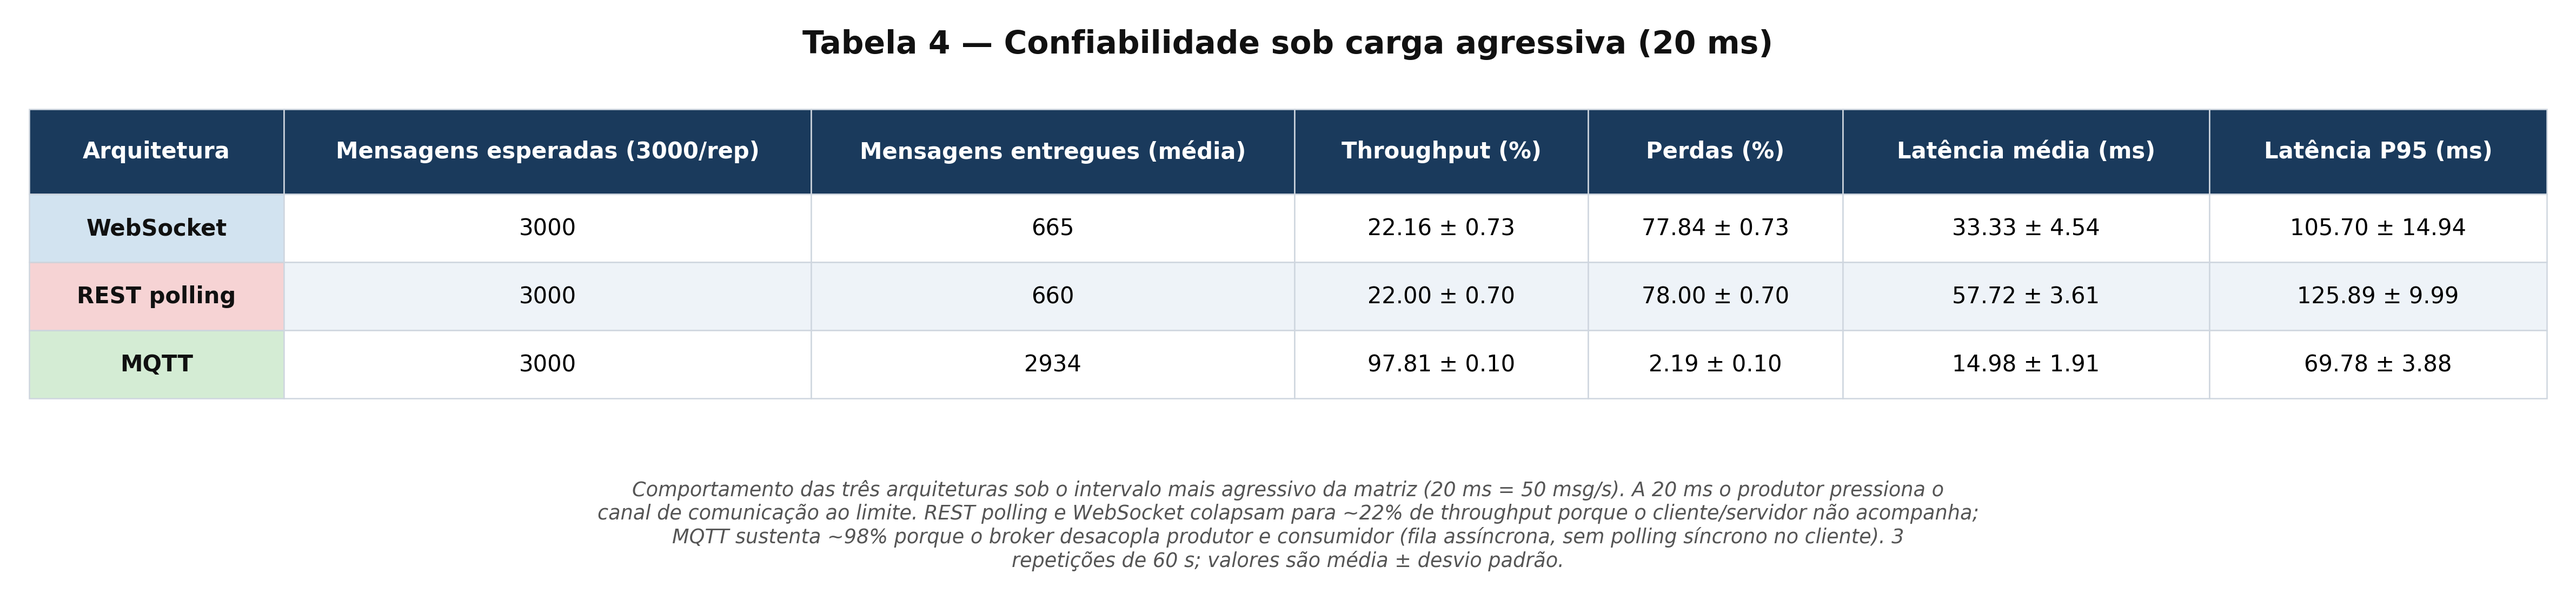
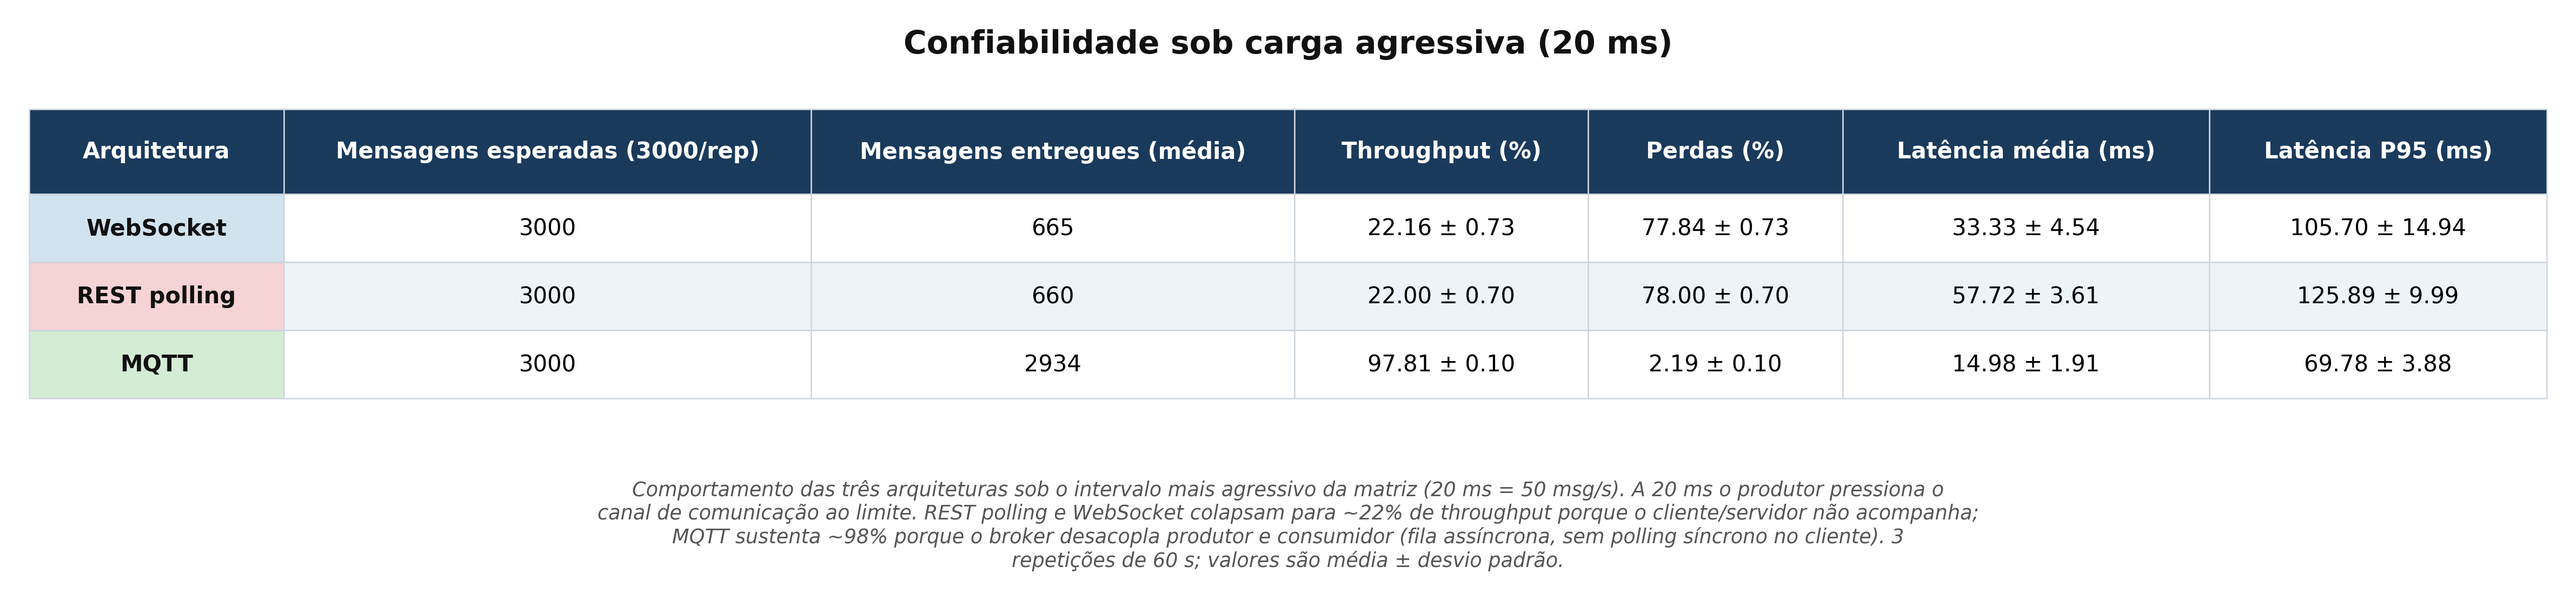
feat: ajustes em geração de tabelas e diagramas

Changed region(s): [[0.3107, 0.0306, 0.6835, 0.0919]]

diff --git a/scripts/gera_tabelas_artigo.py b/scripts/gera_tabelas_artigo.py
@@ -12,11 +12,12 @@ Cada tabela e gravada em quatro formatos com o mesmo basename:
 Tabelas geradas
 ---------------
 
-1. Comparacao executiva A1/A2/A4 (1 linha por arquitetura) -- tabela sintese
-   do artigo: resume o resultado das tres arquiteturas no melhor caso
-   (100 ms) e no pior caso (20 ms).
-2. Resumo detalhado por (arquitetura x intervalo) -- media +/- desvio das 3
-   reps; tabela de apoio com todos os pontos da curva.
+1. Resumo detalhado por (arquitetura x intervalo) -- media +/- desvio das 3
+   reps com throughput %, mensagens/s e perdas %; eh a Tabela 1 do artigo,
+   alimenta a Figura de throughput da Secao 4.1.
+2. Comparacao executiva A1/A2/A4 (1 linha por arquitetura) -- tabela sintese
+   que resume as tres arquiteturas no melhor caso (100 ms) e no pior caso
+   (20 ms); usada como tabela de fechamento de secao ou na conclusao.
 3. Latencia ponta a ponta no baseline saudavel (100 ms) -- defende a tese
    "MQTT entrega latencia ~10-30x menor que REST polling".
 4. Confiabilidade sob alta carga (20 ms) -- defende a tese "REST polling e
@@ -36,6 +37,7 @@ Uso
 from __future__ import annotations
 
 import argparse
+import re
 import sys
 from pathlib import Path
 from typing import Iterable
@@ -305,6 +307,21 @@ def _style_cells(tbl, cell_text, col_labels, arch_column, n_rows):
                 cell.set_text_props(weight="bold", color="#111")
 
 
+_TABLE_NUMBER_PREFIX_RE = re.compile(r"^Tabela\s+\d+\s*[\u2014\u2013\-]\s*")
+
+
+def _strip_table_number_prefix(title: str) -> str:
+    """Remove o prefixo ``"Tabela N \u2014 "`` do titulo.
+
+    A numeracao da tabela e responsabilidade do editor do artigo
+    (Word/LaTeX). No PNG, o titulo grande exibido na figura deve
+    conter apenas a descricao semantica, sem o numero, para evitar
+    redundancia/incoerencia quando a tabela for inserida em uma
+    secao com numeracao automatica.
+    """
+    return _TABLE_NUMBER_PREFIX_RE.sub("", title, count=1)
+
+
 def _render_table_png(df: pd.DataFrame, *,
                       out_path: Path,
                       title: str,
@@ -385,7 +402,7 @@ def _render_table_png(df: pd.DataFrame, *,
     title_y = 1.0 - (
         TABLE_LAYOUT["margin_top_in"] + TABLE_LAYOUT["title_h_in"] * 0.5
     ) / fig_h
-    fig.text(0.5, title_y, title,
+    fig.text(0.5, title_y, _strip_table_number_prefix(title),
              ha="center", va="center",
              fontsize=TABLE_LAYOUT["title_fontsize"], fontweight="bold", color="#111")
 
@@ -470,7 +487,47 @@ def aggregate_by_arch_interval(df: pd.DataFrame) -> pd.DataFrame:
     return agg.reset_index(drop=True)
 
 
-def tabela1_comparacao_executiva(agg: pd.DataFrame, out_dir: Path) -> pd.DataFrame:
+def tabela1_resumo_detalhado(agg: pd.DataFrame, out_dir: Path) -> pd.DataFrame:
+    rows = []
+    for _, r in agg.iterrows():
+        rows.append({
+            "Arquitetura": r["arch_label"],
+            "Intervalo (ms)": int(r["interval_ms"]),
+            "Throughput (%)": fmt_mean_std(r["throughput_pct_mean"],
+                                            r["throughput_pct_std"], 2),
+            "Mensagens/s (msg/s)": fmt_mean_std(r["msgps_mean"],
+                                                  r["msgps_std"], 2),
+            "Perdas (%)": fmt_mean_std(r["loss_pct_mean"],
+                                        r["loss_pct_std"], 2),
+            "Latência média (ms)": fmt_mean_std(r["lat_avg_ms_mean"],
+                                                  r["lat_avg_ms_std"], 2),
+            "Latência P95 (ms)": fmt_mean_std(r["lat_p95_ms_mean"],
+                                                r["lat_p95_ms_std"], 2),
+            "N reps": int(r["n_reps"]),
+        })
+    df = pd.DataFrame(rows)
+
+    save_table_all_formats(
+        df,
+        out_dir=out_dir,
+        base_name="tabela1_resumo_detalhado",
+        title="Tabela 1 \u2014 Resumo detalhado por arquitetura × intervalo",
+        caption=(
+            "Média ± desvio padrão das 3 repetições para cada combinação de "
+            "arquitetura e intervalo de envio do produtor. Intervalos menores "
+            "implicam taxa maior de envio (carga). A coluna \"Mensagens/s\" "
+            "é a vazão efetiva entregue ao cliente (cabe diretamente no texto "
+            "da Seção 4.1), enquanto \"Throughput (%)\" é a mesma vazão "
+            "normalizada pela taxa-alvo do produtor. Tabela de apoio que "
+            "alimenta a Figura de throughput e a Figura de latência do artigo."
+        ),
+        latex_label="tab:resumo-detalhado",
+        arch_column="Arquitetura",
+    )
+    return df
+
+
+def tabela2_comparacao_executiva(agg: pd.DataFrame, out_dir: Path) -> pd.DataFrame:
     rows = []
     for arch in ARCH_ORDER:
         sub = agg[agg["arch_label"] == arch]
@@ -502,8 +559,8 @@ def tabela1_comparacao_executiva(agg: pd.DataFrame, out_dir: Path) -> pd.DataFra
     save_table_all_formats(
         df,
         out_dir=out_dir,
-        base_name="tabela1_comparacao_executiva",
-        title="Tabela 1 \u2014 Comparação executiva entre arquiteturas",
+        base_name="tabela2_comparacao_executiva",
+        title="Tabela 2 \u2014 Comparação executiva entre arquiteturas",
         caption=(
             "Síntese da campanha oficial (ESP32 + Wi-Fi, 3 repetições de 60 s). "
             "Coluna esquerda mostra o comportamento no intervalo saudável de "
@@ -513,41 +570,6 @@ def tabela1_comparacao_executiva(agg: pd.DataFrame, out_dir: Path) -> pd.DataFra
             "resultados/oficial-2026-06-04-v2/consolidated_metrics.csv."
         ),
         latex_label="tab:comparacao-executiva",
-        arch_column="Arquitetura",
-    )
-    return df
-
-
-def tabela2_resumo_detalhado(agg: pd.DataFrame, out_dir: Path) -> pd.DataFrame:
-    rows = []
-    for _, r in agg.iterrows():
-        rows.append({
-            "Arquitetura": r["arch_label"],
-            "Intervalo (ms)": int(r["interval_ms"]),
-            "Throughput (%)": fmt_mean_std(r["throughput_pct_mean"],
-                                            r["throughput_pct_std"], 2),
-            "Perdas (%)": fmt_mean_std(r["loss_pct_mean"],
-                                        r["loss_pct_std"], 2),
-            "Latência média (ms)": fmt_mean_std(r["lat_avg_ms_mean"],
-                                                  r["lat_avg_ms_std"], 2),
-            "Latência P95 (ms)": fmt_mean_std(r["lat_p95_ms_mean"],
-                                                r["lat_p95_ms_std"], 2),
-            "N reps": int(r["n_reps"]),
-        })
-    df = pd.DataFrame(rows)
-
-    save_table_all_formats(
-        df,
-        out_dir=out_dir,
-        base_name="tabela2_resumo_detalhado",
-        title="Tabela 2 \u2014 Resumo detalhado por arquitetura × intervalo",
-        caption=(
-            "Média ± desvio padrão das 3 repetições para cada combinação de "
-            "arquitetura e intervalo de envio do produtor. Intervalos menores "
-            "implicam taxa maior de envio (carga). Tabela de apoio que "
-            "alimenta a Figura de throughput e a Figura de latência do artigo."
-        ),
-        latex_label="tab:resumo-detalhado",
         arch_column="Arquitetura",
     )
     return df
@@ -730,8 +752,8 @@ def main(argv: Iterable[str] | None = None) -> int:
     agg = aggregate_by_arch_interval(df_raw)
 
     print("Gerando 5 tabelas em 4 formatos (csv, md, tex, png):\n")
-    tabela1_comparacao_executiva(agg, out_dir)
-    tabela2_resumo_detalhado(agg, out_dir)
+    tabela1_resumo_detalhado(agg, out_dir)
+    tabela2_comparacao_executiva(agg, out_dir)
     tabela3_latencia_baseline(agg, out_dir)
     tabela4_carga_extrema(df_raw, agg, out_dir)
     tabela5_pontos_saturacao(df_raw, agg, out_dir)

diff --git a/resultados/oficial-2026-06-04-v2/tabelas-artigo/tabela1_resumo_detalhado.md b/resultados/oficial-2026-06-04-v2/tabelas-artigo/tabela1_resumo_detalhado.md
@@ -1,0 +1,24 @@
+# Tabela 1 — Resumo detalhado por arquitetura × intervalo
+
+Média ± desvio padrão das 3 repetições para cada combinação de arquitetura e intervalo de envio do produtor. Intervalos menores implicam taxa maior de envio (carga). A coluna "Mensagens/s" é a vazão efetiva entregue ao cliente (cabe diretamente no texto da Seção 4.1), enquanto "Throughput (%)" é a mesma vazão normalizada pela taxa-alvo do produtor. Tabela de apoio que alimenta a Figura de throughput e a Figura de latência do artigo.
+
+| Arquitetura | Intervalo (ms) | Throughput (%) | Mensagens/s (msg/s) | Perdas (%) | Latência média (ms) | Latência P95 (ms) | N reps |
+|---|---|---|---|---|---|---|---|
+| WebSocket | 1000 | 118.33 ± 14.24 | 1.18 ± 0.14 | 0.00 ± 0.00 | 41.12 ± 4.08 | 124.03 ± 4.02 | 3 |
+| WebSocket | 500 | 97.50 ± 2.20 | 1.95 ± 0.04 | 2.50 ± 2.20 | 51.54 ± 3.39 | 147.57 ± 26.65 | 3 |
+| WebSocket | 200 | 97.89 ± 1.07 | 4.89 ± 0.05 | 2.11 ± 1.07 | 43.45 ± 3.06 | 132.26 ± 13.06 | 3 |
+| WebSocket | 100 | 91.06 ± 4.95 | 9.11 ± 0.49 | 8.94 ± 4.95 | 31.57 ± 3.76 | 86.49 ± 35.84 | 3 |
+| WebSocket | 50 | 55.08 ± 0.95 | 11.01 ± 0.19 | 44.92 ± 0.95 | 32.53 ± 3.78 | 105.22 ± 11.04 | 3 |
+| WebSocket | 20 | 22.16 ± 0.73 | 11.08 ± 0.37 | 77.84 ± 0.73 | 33.33 ± 4.54 | 105.70 ± 14.94 | 3 |
+| REST polling | 1000 | 96.67 ± 1.67 | 0.96 ± 0.02 | 3.33 ± 1.67 | 553.14 ± 200.61 | 910.32 ± 162.38 | 3 |
+| REST polling | 500 | 95.00 ± 2.89 | 1.89 ± 0.06 | 5.00 ± 2.89 | 286.91 ± 11.15 | 507.37 ± 4.84 | 3 |
+| REST polling | 200 | 91.00 ± 1.73 | 4.54 ± 0.08 | 9.00 ± 1.73 | 135.32 ± 2.66 | 232.84 ± 14.20 | 3 |
+| REST polling | 100 | 82.11 ± 0.67 | 8.20 ± 0.07 | 17.89 ± 0.67 | 83.16 ± 2.12 | 138.19 ± 6.63 | 3 |
+| REST polling | 50 | 54.78 ± 1.09 | 10.95 ± 0.22 | 45.22 ± 1.09 | 73.05 ± 1.11 | 146.00 ± 3.73 | 3 |
+| REST polling | 20 | 22.00 ± 0.70 | 11.00 ± 0.35 | 78.00 ± 0.70 | 57.72 ± 3.61 | 125.89 ± 9.99 | 3 |
+| MQTT | 1000 | 201.67 ± 6.01 | 2.02 ± 0.06 | 0.00 ± 0.00 | 4.51 ± 4.35 | 27.20 ± 27.00 | 3 |
+| MQTT | 500 | 99.17 ± 0.00 | 1.98 ± 0.00 | 0.83 ± 0.00 | 0.00 ± 0.00 | 0.00 ± 0.00 | 3 |
+| MQTT | 200 | 99.67 ± 0.00 | 4.98 ± 0.00 | 0.33 ± 0.00 | 0.00 ± 0.00 | 0.00 ± 0.00 | 3 |
+| MQTT | 100 | 99.83 ± 0.00 | 9.98 ± 0.00 | 0.17 ± 0.00 | 2.81 ± 0.60 | 25.62 ± 4.28 | 3 |
+| MQTT | 50 | 98.36 ± 0.10 | 19.67 ± 0.02 | 1.64 ± 0.10 | 13.06 ± 2.56 | 67.55 ± 4.44 | 3 |
+| MQTT | 20 | 97.81 ± 0.10 | 48.90 ± 0.05 | 2.19 ± 0.10 | 14.98 ± 1.91 | 69.78 ± 3.88 | 3 |

diff --git a/docs/diagramas/README.md b/docs/diagramas/README.md
@@ -15,6 +15,8 @@ relance — poucos nós, poucas cores e rótulos curtos.
 | `E` | **Fluxo de medição da latência** ponta a ponta (SNTP + Cristian) | `D_fluxo_medicao_latencia` |
 | `F` | **Cenário multi-cliente** (1, 2, 5, 10, 20 navegadores) | `E_cenario_multi_cliente` |
 | `G` | **Ambiente experimental** completo | `F_ambiente_experimental` |
+| `H` | **Fluxo de dados no backend Node.js** (ingestão única + duas vias de entrega) | *(novo, seção 3.3 do artigo)* |
+| `I` | **Fluxo de dados no bridge MQTT** (subscribe + pipeline reaproveitado + WebSocket) | *(novo, seção 3.4 do artigo)* |
 
 > Os identificadores internos `A1` (WebSocket), `A2` (REST polling),
 > `A3` (Serverless) e `A4` (MQTT) ainda aparecem nos scripts da campanha
@@ -32,8 +34,8 @@ elas:
 
 - **Laranja** — dispositivo embarcado (ESP32);
 - **Azul** — servidor / função / bridge;
-- **Roxo** — broker MQTT (apenas no diagrama C);
-- **Cinza** — armazenamento (apenas no diagrama D);
+- **Roxo** — broker MQTT (diagramas C e I);
+- **Cinza** — armazenamento (diagrama D e cache da última amostra no diagrama H);
 - **Verde** — cliente / dashboard / saída;
 - **Lilás** — ferramenta auxiliar (orquestrador, simulador).
 
@@ -63,7 +65,7 @@ Pré-requisito: Python 3.10+ e conexão com internet (usa o serviço público
 python docs/diagramas/_render.py
 ```
 
-Saída esperada: `SVG 7/7 | PNG 7/7`. Se não houver internet, os `.mmd`
+Saída esperada: `SVG 9/9 | PNG 9/9`. Se não houver internet, os `.mmd`
 permanecem como fonte canônica e podem ser renderizados depois.
 
 Para editar um diagrama:
@@ -83,3 +85,5 @@ Para editar um diagrama:
 | E — Fluxo de latência | ![E](png/E_fluxo_medicao_latencia.png) |
 | F — Multi-cliente | ![F](png/F_cenario_multi_cliente.png) |
 | G — Ambiente experimental | ![G](png/G_ambiente_experimental.png) |
+| H — Fluxo de dados no backend Node.js | ![H](png/H_backend_node_dataflow.png) |
+| I — Fluxo de dados no bridge MQTT | ![I](png/I_mqtt_bridge_dataflow.png) |

diff --git a/docs/REPRODUCING.md b/docs/REPRODUCING.md
@@ -308,7 +308,7 @@ por hardware/Wi-Fi, mas as **conclusões qualitativas** devem se manter:
 | Em **20 ms**, perdas A1/A2 ≫ A4 | A1/A2 ≈ 78 %, A4 ≈ 2 % |
 
 A **tabela executiva de referência** (com ± 1 σ sobre 3 reps) está em
-[`resultados/oficial-2026-06-04-v2/tabelas-artigo/tabela1_comparacao_executiva.csv`](../resultados/oficial-2026-06-04-v2/tabelas-artigo/tabela1_comparacao_executiva.csv).
+[`resultados/oficial-2026-06-04-v2/tabelas-artigo/tabela2_comparacao_executiva.csv`](../resultados/oficial-2026-06-04-v2/tabelas-artigo/tabela2_comparacao_executiva.csv).
 
 > Diferenças **quantitativas** de ±10 % em latência e ±5 % em
 > throughput são esperadas (depende do PC, do roteador Wi-Fi e da

diff --git a/resultados/oficial-2026-06-04-v2/tabelas-artigo/tabela2_comparacao_executiva.md b/resultados/oficial-2026-06-04-v2/tabelas-artigo/tabela2_comparacao_executiva.md
@@ -1,4 +1,4 @@
-# Tabela 1 — Comparação executiva entre arquiteturas
+# Tabela 2 — Comparação executiva entre arquiteturas
 
 Síntese da campanha oficial (ESP32 + Wi-Fi, 3 repetições de 60 s). Coluna esquerda mostra o comportamento no intervalo saudável de 100 ms (cada padrão no seu "melhor caso"); coluna direita mostra o comportamento sob carga agressiva de 20 ms (5× o baseline). Valores são média ± desvio padrão das 3 repetições. Fonte: resultados/oficial-2026-06-04-v2/consolidated_metrics.csv.
 
